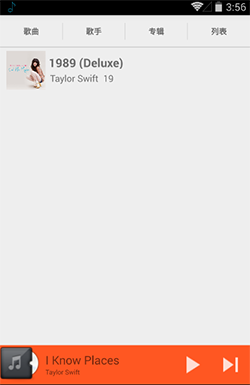
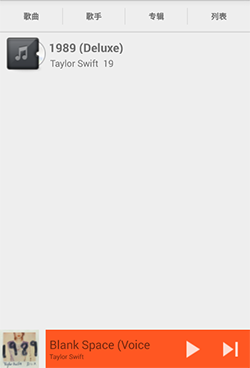
update the latest pictures

Changed region(s): [[0.0, 0.0, 1.0, 0.2391], [0.0, 0.8967, 1.0, 1.0], [0.728, 0.8967, 0.756, 0.9266]]

diff --git a/README.md b/README.md
@@ -26,6 +26,10 @@
 支持
 ----
 
+ViewPager切换的部分使用[PagerSlidingTabStrip](https://github.com/astuetz/PagerSlidingTabStrip)
+
+获取专辑封面部分代码采用网络上的一篇博客上面的代码[http://blog.csdn.net/wwj_748/article/details/9237561](http://blog.csdn.net/wwj_748/article/details/9237561)
+
 如果发现我的项目有什么不足或者可以改进的地方，请给我提意见
 [https://github.com/MaybeMercy/miplayer/issues](https://github.com/MaybeMercy/miplayer/issues)
 
